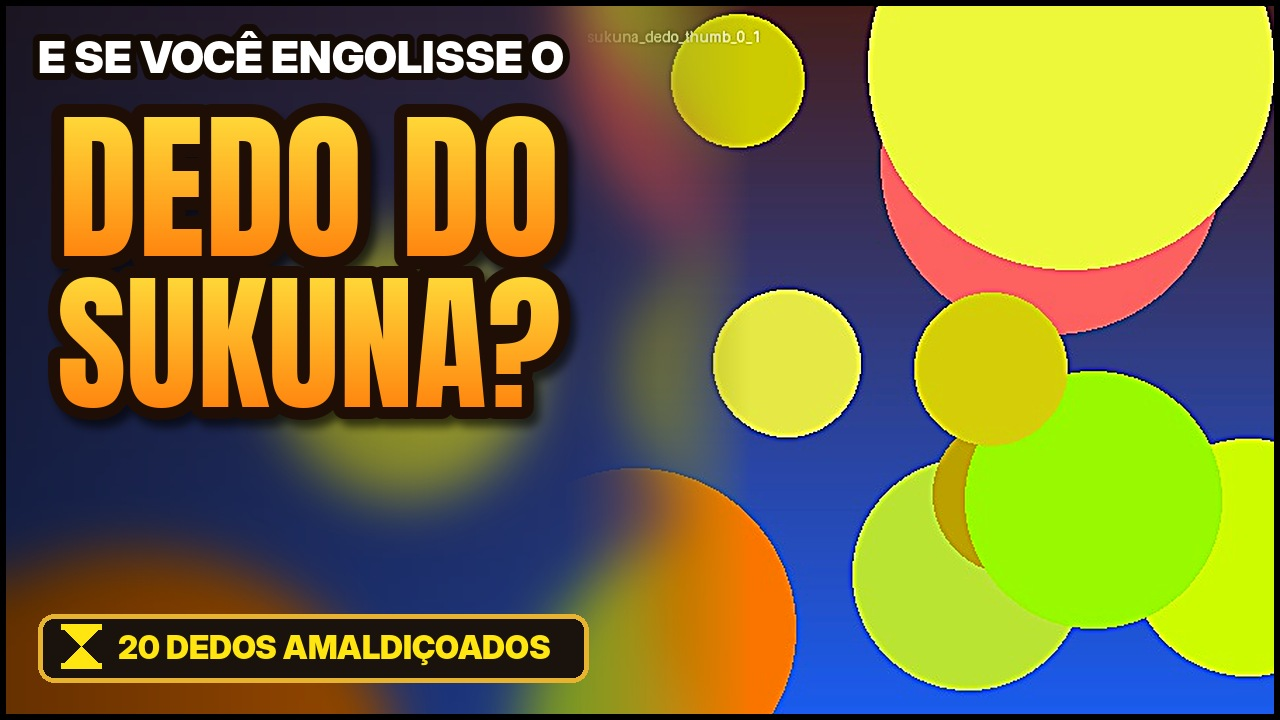
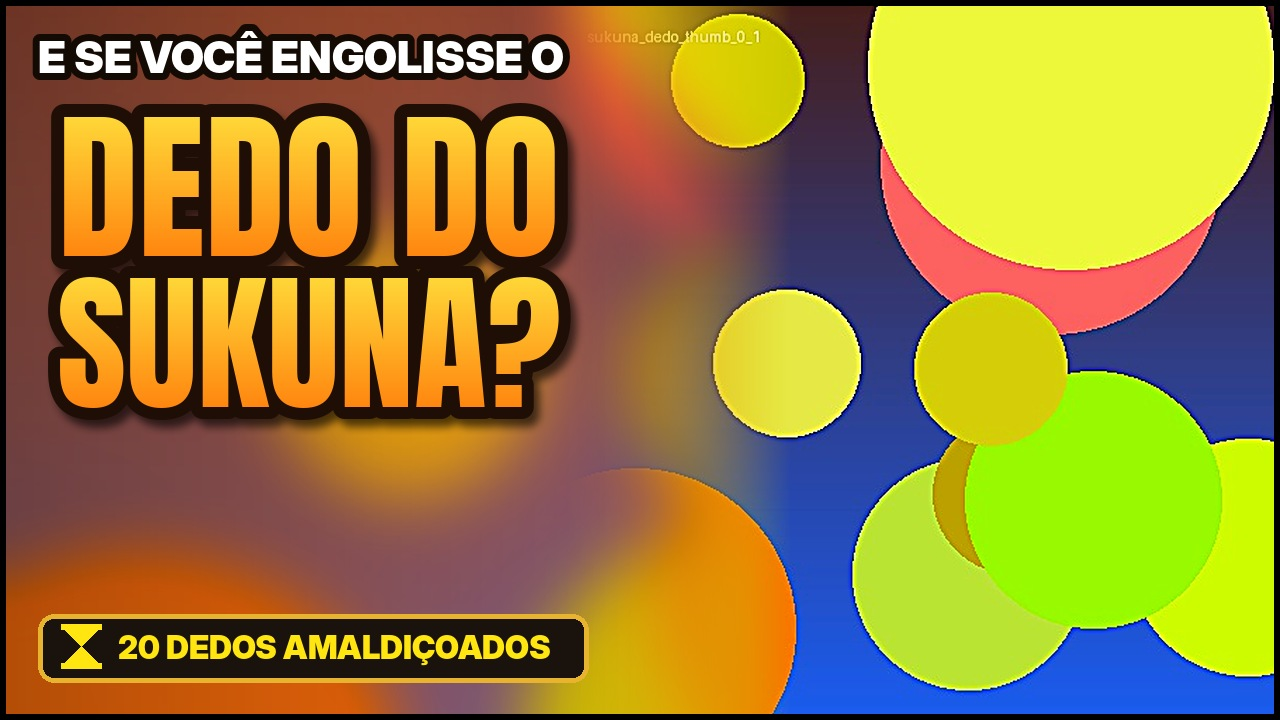
Miniatura: fundo mais vivo e salva as imagens-base
Claude-Session: https://claude.ai/code/session_01WQzHNLruvnwwPeWV5xeNnM

diff --git a/fabrica/miniatura.py b/fabrica/miniatura.py
@@ -70,14 +70,21 @@ def _ampulheta(d, x, y, s, cor):
 def _fundo(caminho, lado):
     """Personagem grande de um lado; o outro lado é uma extensão desfocada e quente da própria imagem."""
     img = Image.open(caminho).convert("RGB")
-    bg = ImageOps.fit(img, (W, H), Image.LANCZOS).filter(ImageFilter.GaussianBlur(26))
-    bg = ImageEnhance.Brightness(ImageEnhance.Color(bg).enhance(1.25)).enhance(0.72)
+    bg = ImageOps.fit(img, (W, H), Image.LANCZOS).filter(ImageFilter.GaussianBlur(30))
+    bg = ImageEnhance.Contrast(ImageEnhance.Brightness(ImageEnhance.Color(bg).enhance(1.6)).enhance(1.0)).enhance(1.12)
+    # clarão quente do lado do texto (como nas miniaturas do canal: fundo laranja vivo atrás das letras)
+    brilho = Image.new("L", (W, H), 0)
+    bd = ImageDraw.Draw(brilho)
+    cx = int(COL * 0.55) if lado == "esq" else int(W - COL * 0.55)
+    bd.ellipse([cx - 520, H // 2 - 420, cx + 520, H // 2 + 420], fill=150)
+    brilho = brilho.filter(ImageFilter.GaussianBlur(140))
+    bg = Image.composite(Image.new("RGB", (W, H), (236, 104, 18)), bg, brilho)
     fg = img.resize((H, H), Image.LANCZOS).filter(ImageFilter.UnsharpMask(radius=2.5, percent=120, threshold=2))
     fg = ImageEnhance.Contrast(ImageEnhance.Color(fg).enhance(1.18)).enhance(1.08)
     # transição suave entre a imagem nítida e o fundo desfocado, do lado do texto
     mask = Image.new("L", (H, H), 255)
     md = ImageDraw.Draw(mask)
-    faixa = 190
+    faixa = 230
     for i in range(faixa):
         a = int(255 * (i / faixa) ** 1.4)
         x = i if lado == "esq" else H - 1 - i
@@ -105,7 +112,7 @@ def compor(fundo, linha1, titulo, etiqueta, saida, lado="esq", inclinar=0.0):
     sombra = Image.new("RGBA", (W, H), (0, 0, 0, 0))
     sd = ImageDraw.Draw(sombra)
     for i in range(COL + 120):
-        a = int(110 * (1 - i / (COL + 120)) ** 1.2)
+        a = int(70 * (1 - i / (COL + 120)) ** 1.2)
         x = i if lado == "esq" else W - 1 - i
         sd.line([(x, 0), (x, H)], fill=(0, 0, 0, a))
     im = Image.alpha_composite(im, sombra)

diff --git a/fabrica/pipeline.py b/fabrica/pipeline.py
@@ -58,6 +58,8 @@ def fazer_miniaturas(R, pasta, saida):
             fundo = os.path.join(pasta, "img", f"{R.SLUG}_thumb_{i}_{k}.jpg")
             if not os.path.exists(fundo):
                 continue
+            os.makedirs(os.path.join(saida, "base"), exist_ok=True)
+            shutil.copy(fundo, os.path.join(saida, "base", f"thumb_{letra}_c{k}.jpg"))
             f = os.path.join(saida, f"thumb_{letra}_c{k}.jpg")
             miniatura.compor(fundo, t["linha1"], t["titulo"], t.get("etiqueta", ""), f, lado=t.get("lado", "esq"),
                              inclinar=t.get("inclinar", 0.0))
